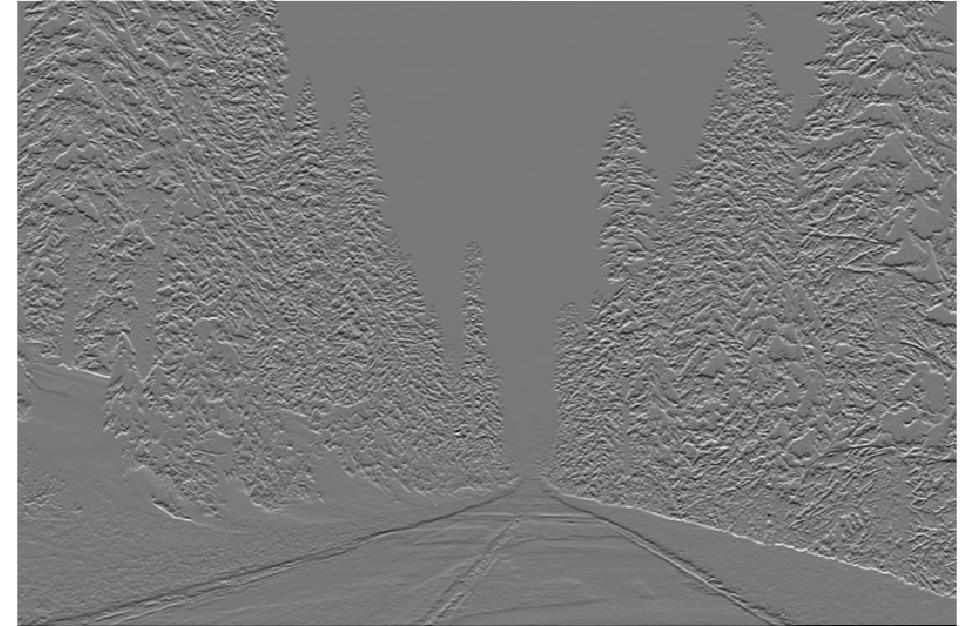
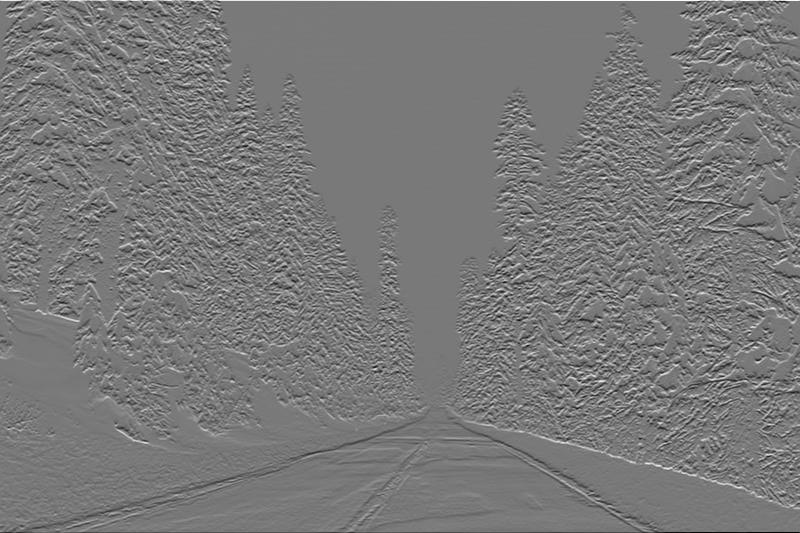
Fix method 3 in LoG; implement mat2gray for all results. Derive new image results

diff --git a/Lab2/Part1 Image Enhancement/compute_LoG.m b/Lab2/Part1 Image Enhancement/compute_LoG.m
@@ -3,31 +3,36 @@ function imOut = compute_LoG(image, LOG_type)
 switch LOG_type
     case 1
         %method 1
+        % first smooth the image with Gaussian kernel and
+        % afterwards convolve with Laplacian filter
         smoothed_img = imfilter(image, gauss2D(0.5, 5));
         h = fspecial('laplacian');
         imOut = imfilter(smoothed_img, h, 'replicate');
 
     case 2
         %method 2
+        % convolve the image directly with LoG kernel
         LoG_kernel = fspecial('log', 5, 0.5);
         imOut = imfilter(image, LoG_kernel, 'replicate', 'conv');
         
     case 3
         %method 3
-        ratio = 1.6;
-        sigma1 = 0.5;
-        sigma2 = sigma1 * ratio;
-
-        gaussian1 = imgaussfilt(image, sigma1, 'FilterSize', 5);
-        gaussian2 = imgaussfilt(image, sigma2, 'FilterSize', 5);
+        % set ratio to sqrt(2) and base stdev to 0.5
+        ratio = sqrt(2);
+        sigma_low = 0.5;
+        sigma_high = sigma_low * ratio;
         
-%         filter1 = fspecial('Gaussian', 5, sigma1);
-%         filter2 = fspecial('Gaussian', 5, sigma2);
-%         
-%         gaussian1 = imfilter(image, filter1, 'replicate');
-%         gaussian2 = imfilter(image, filter2, 'replicate');
+        % create the low and high Gaussian kernels
+        filter_low = gauss2D(sigma_low, 5);
+        filter_high = gauss2D(sigma_high, 5);
         
-        imOut = gaussian2 - gaussian1;
+        % compute Difference of Gaussians (DoG)
+        DoG = filter_high - filter_low;
+        
+        % convolve image with DoG and normalise to grayscale for better
+        % visualising
+        imOut = imfilter(image, DoG, 'replicate');
+        imOut = mat2gray(imOut);
 end
 end
 

diff --git a/Lab2/Part1 Image Enhancement/testing.m b/Lab2/Part1 Image Enhancement/testing.m
@@ -1,11 +1,22 @@
 %% Read img1
-img = imread('images\image1_gaussian.jpg');
+img = imread('images/image1_gaussian.jpg');
 %% Denoising
-denoised = denoise(img, 'gaussian', 1, 3);
-figure, imshow(denoised);
+denoised = denoise(img, 'gaussian', 2, 3);
+imwrite(denoised, 'results/gaussian noise/gaussian_std_2.jpg');
+% figure, imshow(denoised);
+myPSNR(orig_img, imread('results/gaussian noise/gaussian_std_2.jpg'))
+
+%% Load initial image
+orig_img = imread('images/image1.jpg');
+
+%% PSRN computation
+myPSNR(orig_img, imread('results/gaussian noise/gaussian_std_2.jpg'))
+
+%%
 
 %% Read img2
-img = imread('images\image2.jpg');
+img = imread('test\test.jpg');
+img = rgb2gray(img);
 
 %% First order gradient
 % [Gx1, Gy1] = imgradientxy(img);
@@ -17,13 +28,13 @@ img = imread('images\image2.jpg');
 % figure, imshow(Gy1, []), title('Directional gradient: Y axis MATLAB')
 % figure, imshow(Gmag1, []), title('Gradient magnitude MATLAB')
 % figure, imshow(Gdir1, []), title('Gradient direction MATLAB')
-
-figure, imshow(Gx2, [])%, title('Directional gradient: X axis')
-figure, imshow(Gy2, [])%, title('Directional gradient: Y axis')
-figure, imshow(Gmag2, [])%, title('Gradient magnitude')
-figure, imshow(Gdir2, [])%, title('Gradient direction')
-% set(gca,'position',[0 0 1 1],'units','normalized')
+%%
+figure, imshow(Gx2)%, title('Directional gradient: X axis')
+figure, imshow(Gy2)%, title('Directional gradient: Y axis')
+figure, imshow(Gmag2)%, title('Gradient magnitude')
+figure, imshow(Gdir2)%, title('Gradient direction')
 
 %% Second order gradient
 LoG = compute_LoG(img, 2);
-figure, imshow(LoG, []);
+figure, imshow(LoG);
+

diff --git a/Lab2/Part1 Image Enhancement/compute_gradient.m b/Lab2/Part1 Image Enhancement/compute_gradient.m
@@ -3,10 +3,14 @@ function [Gx, Gy, im_magnitude, im_direction] = compute_gradient(image)
 sobel_kernel = [1 0 -1; 2 0 -2; 1 0 -1];
 Gx = conv2(image, sobel_kernel, 'same');
 Gy = conv2(image, transpose(sobel_kernel), 'same');
-% Gx = double(imfilter(image, sobel_kernel, 'replicate'));
-% Gy = double(imfilter(image, transpose(sobel_kernel), 'replicate'));
 
 % compute gradient magnitue and direction
 im_magnitude = sqrt(Gx .^ 2 + Gy .^ 2);
 im_direction = -atan2(Gy, Gx);
+
+% normalise images for better visualisation of results
+Gx = mat2gray(Gx);
+Gy = mat2gray(Gy);
+im_magnitude = mat2gray(im_magnitude);
+im_direction = mat2gray(im_direction);
 end
